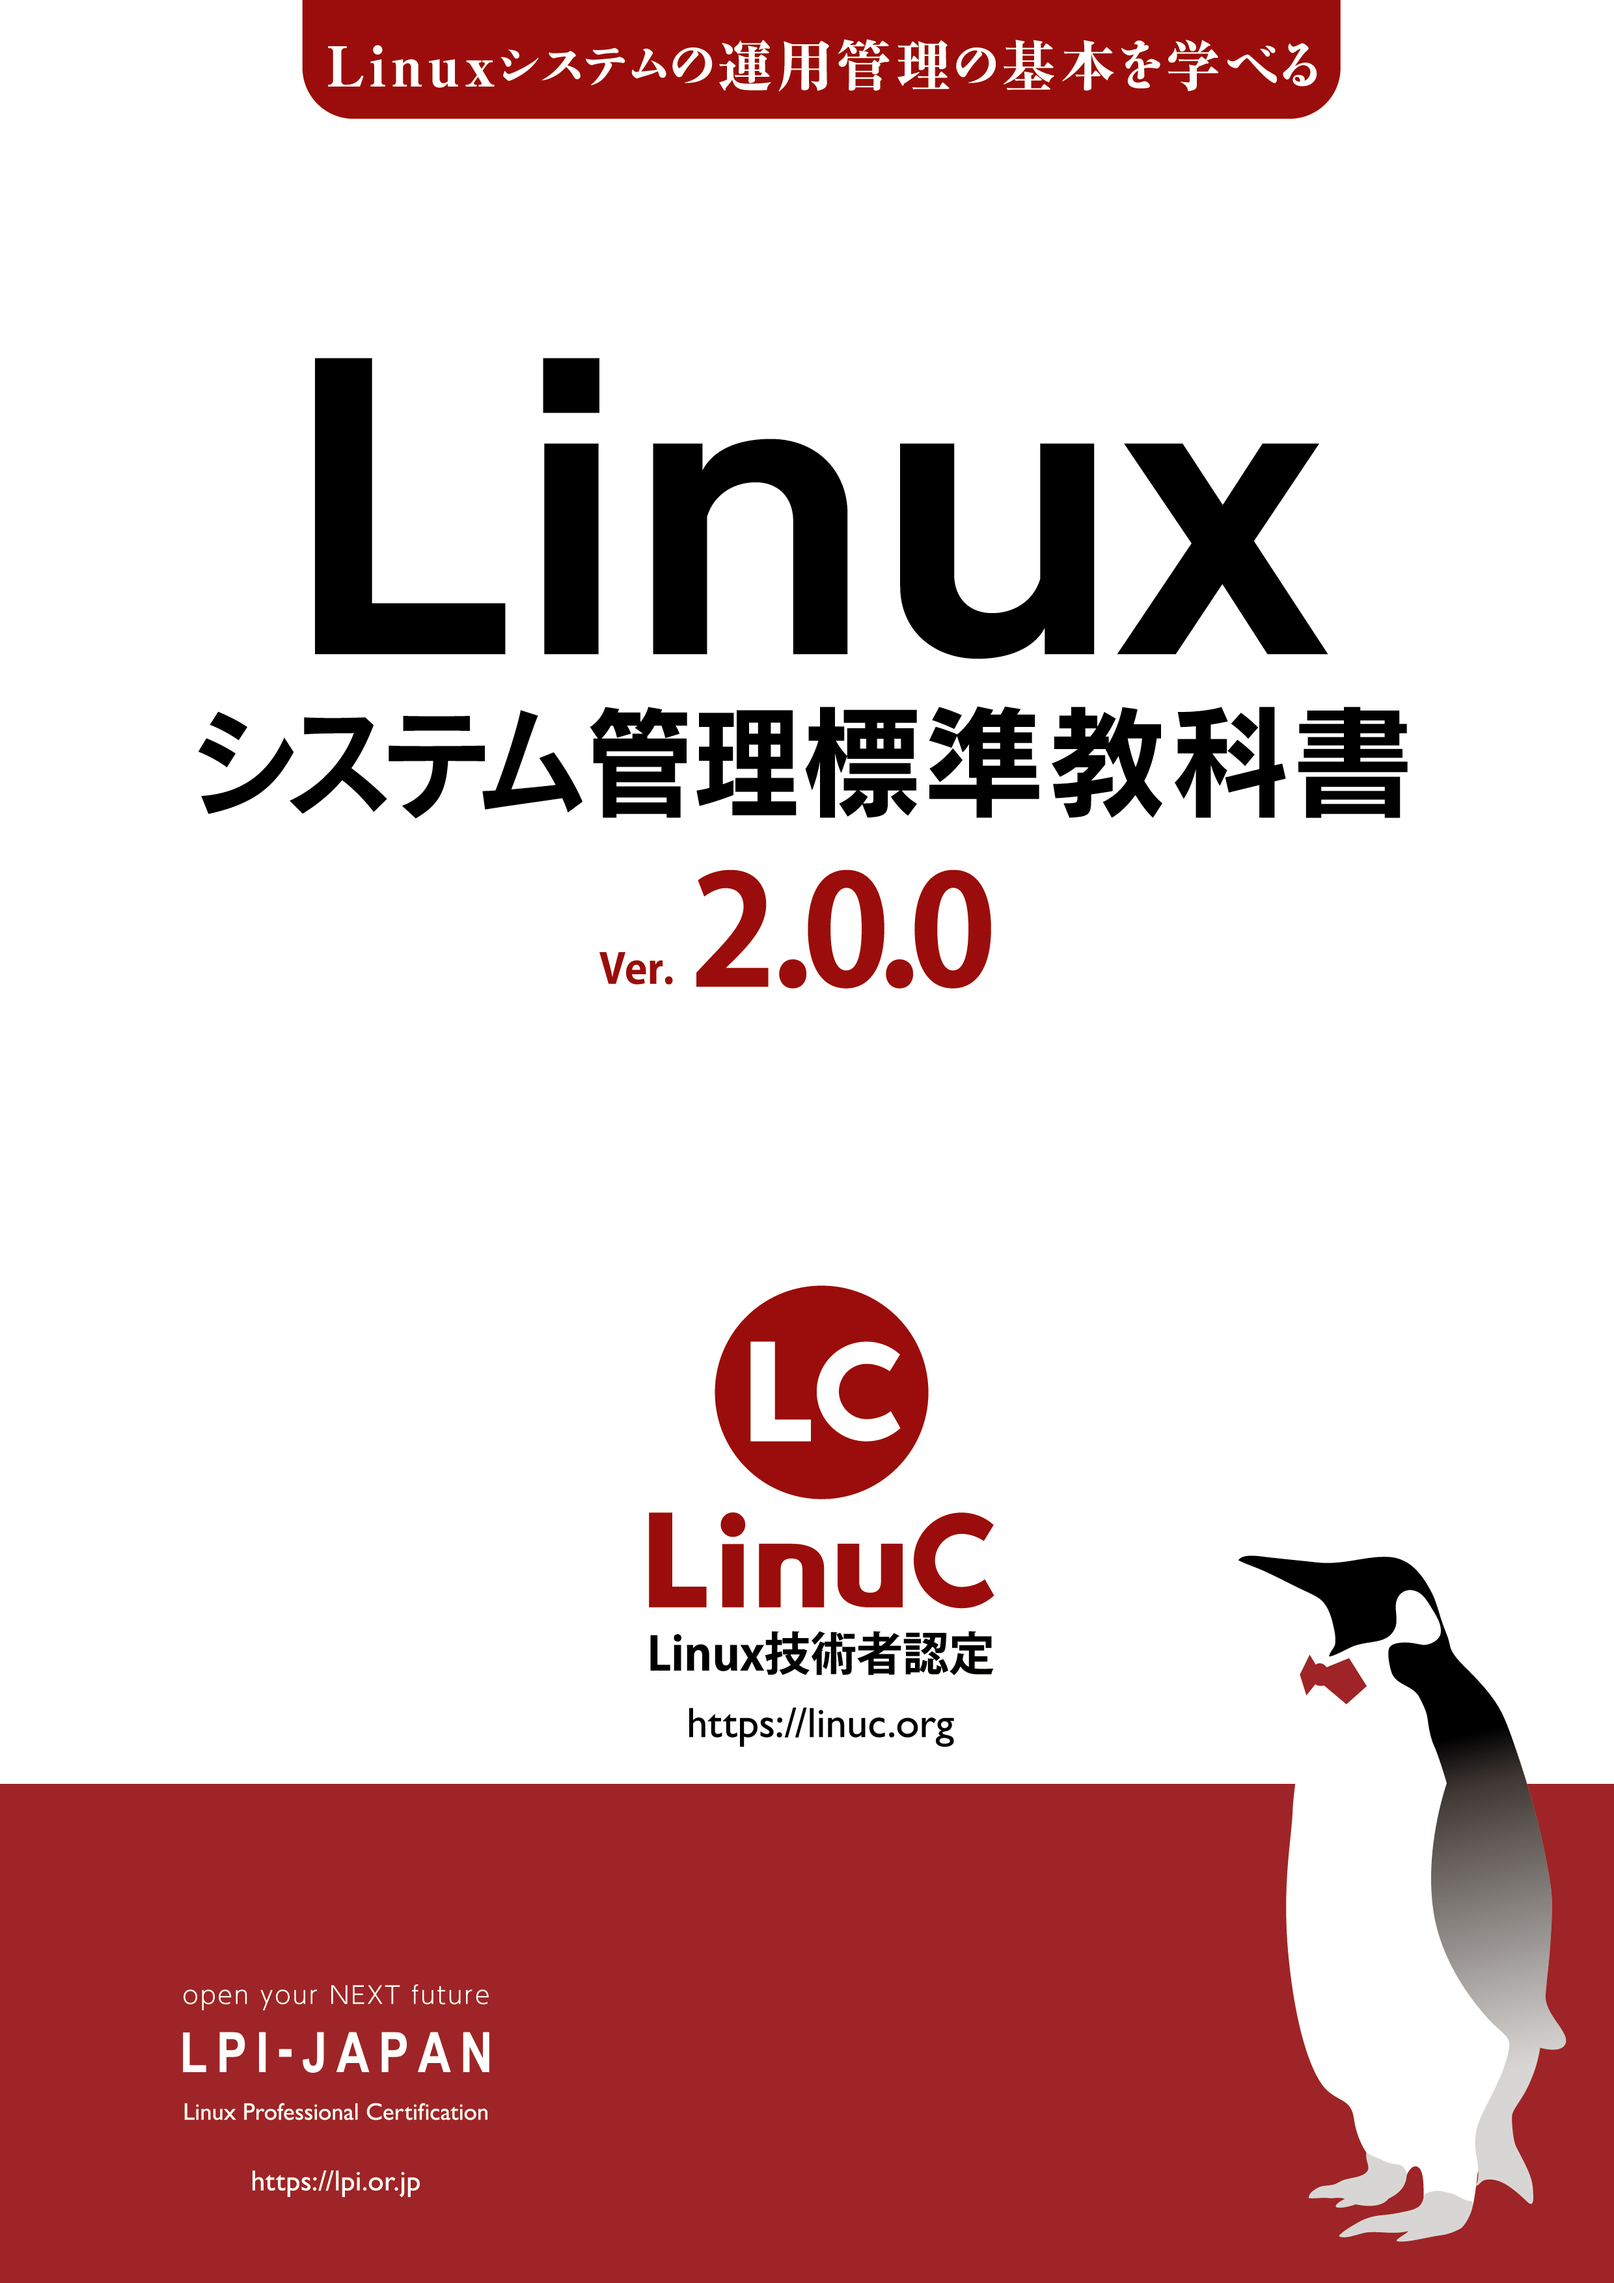
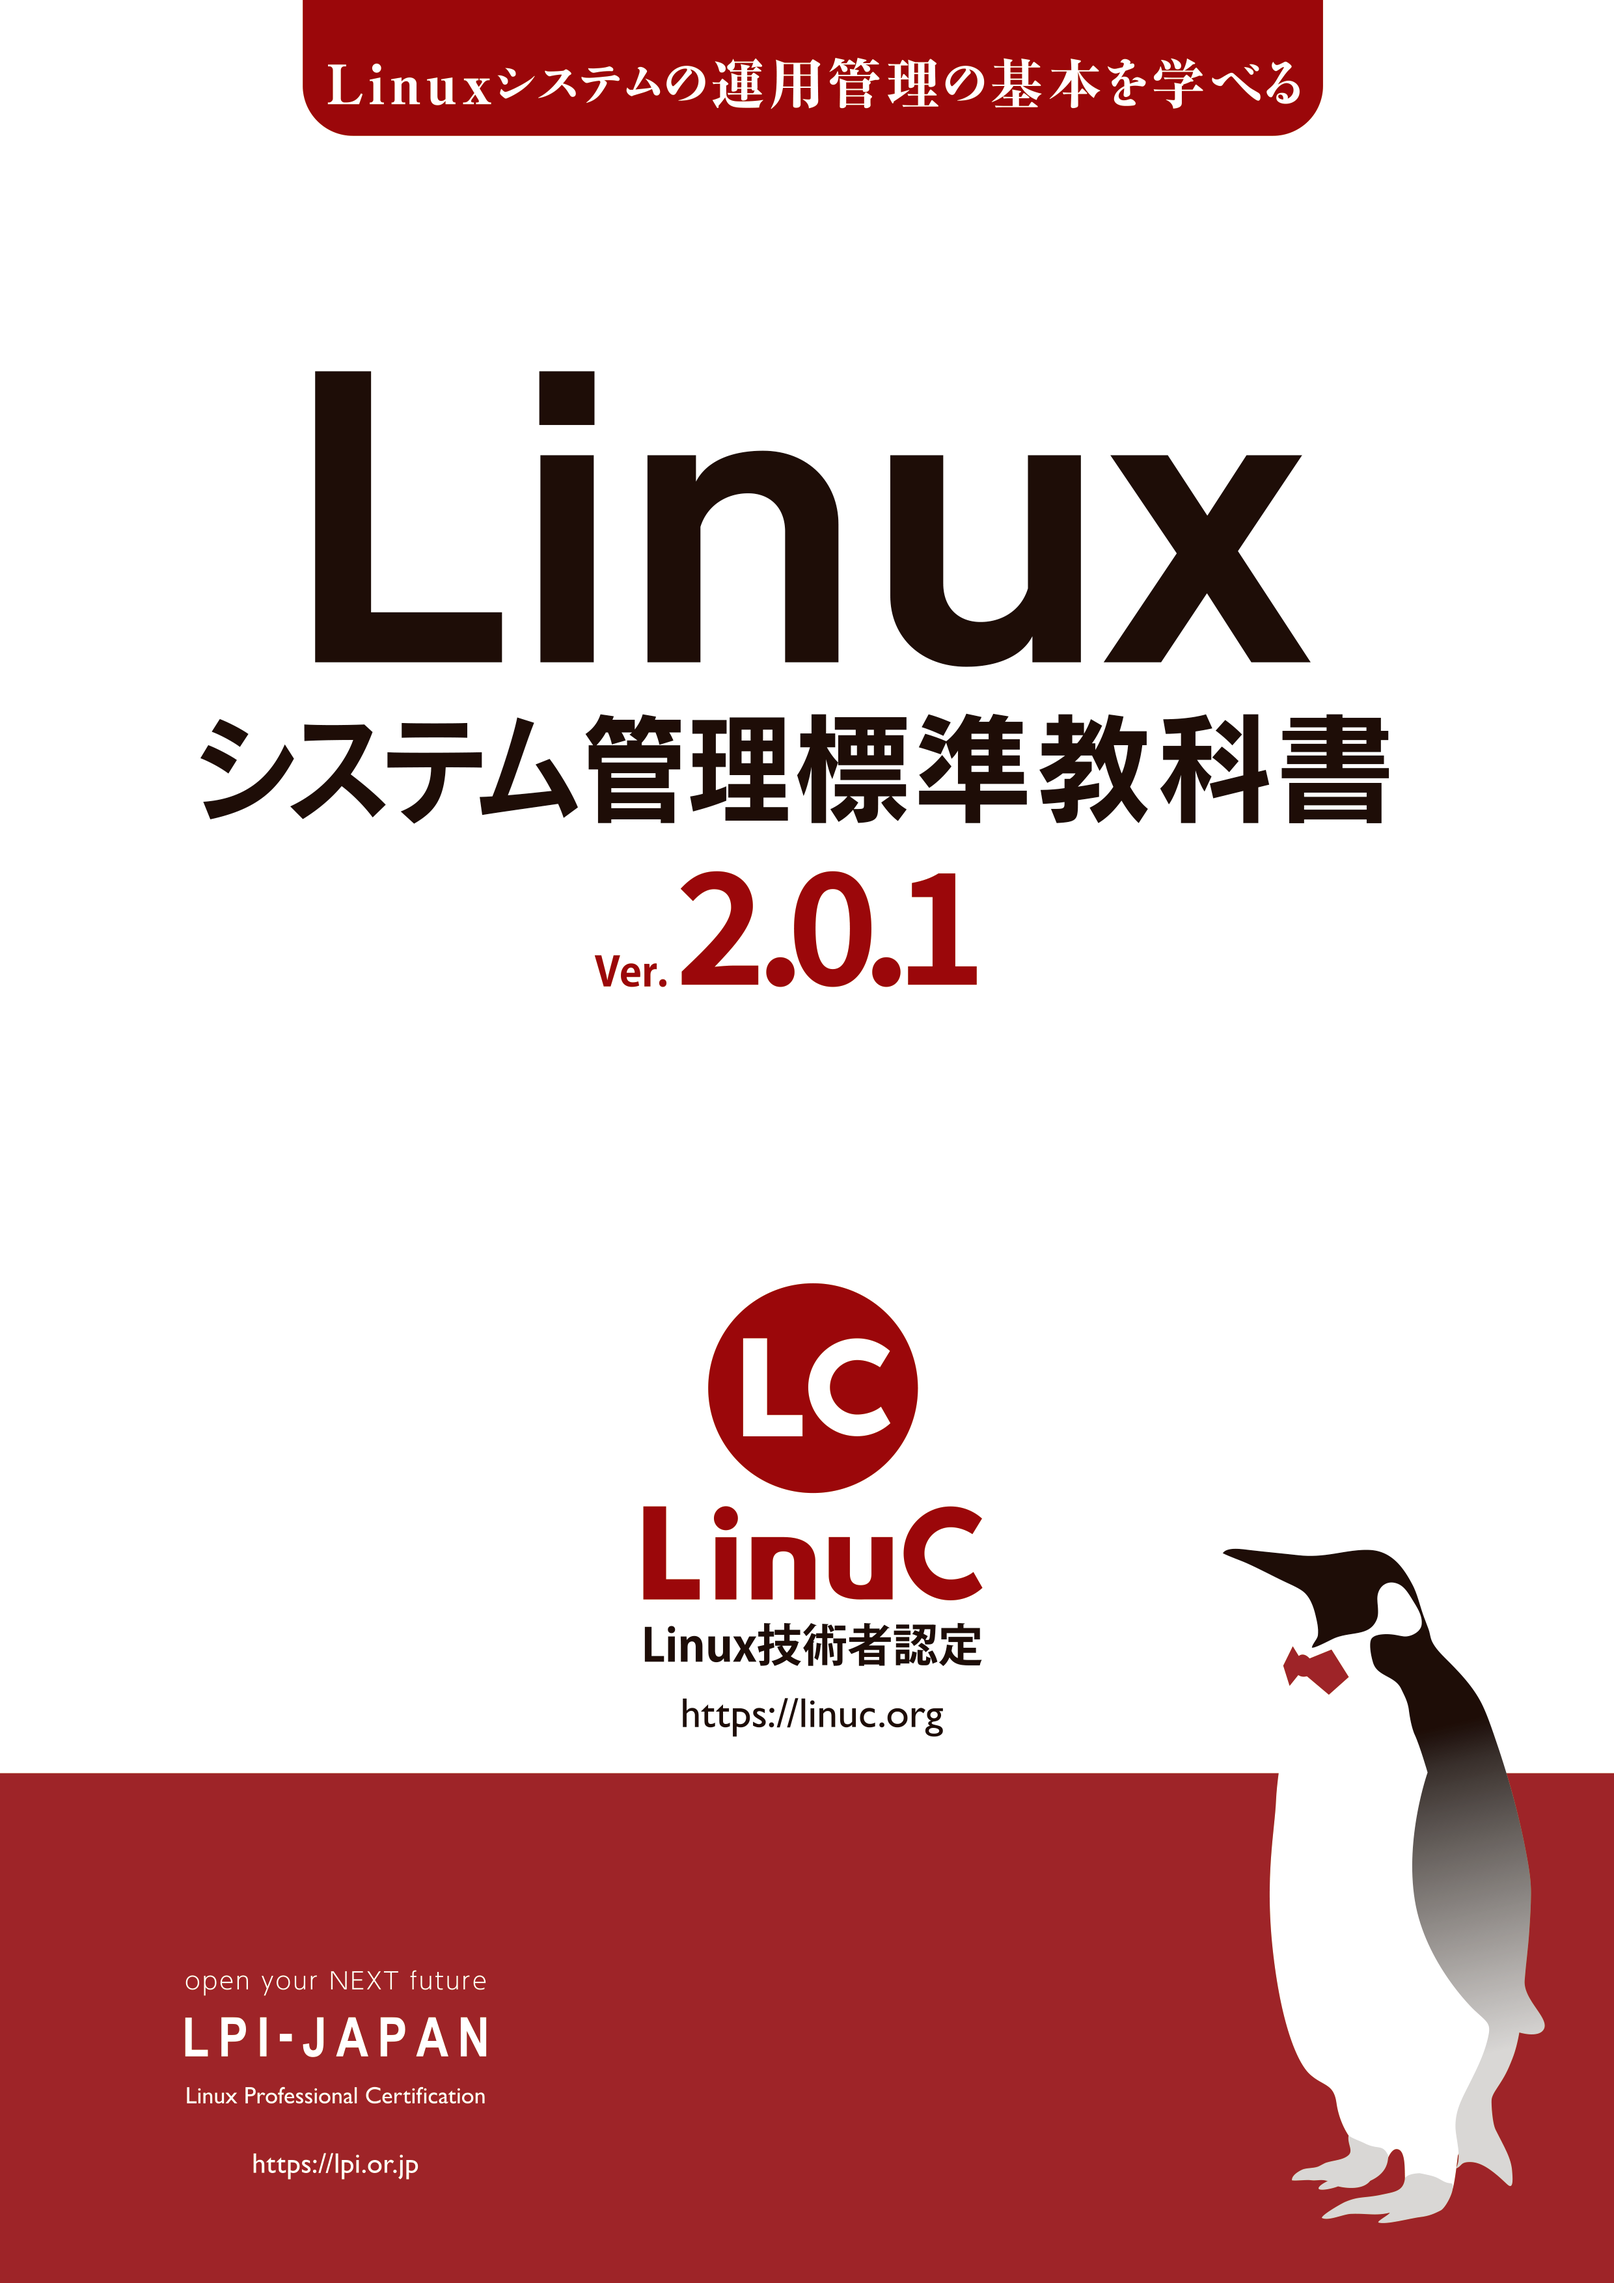
Increment patch version, update date

diff --git a/Foot.md b/Foot.md
@@ -8,7 +8,7 @@ Linuxシステム管理標準教科書
 
 ![](image/bar.png){width=90%}
 
-2025年  9月  16日 V2.0.0 発行
+2025年  10月  6日 V2.0.1 発行
 
 ![](image/bar.png){width=90%}
 
